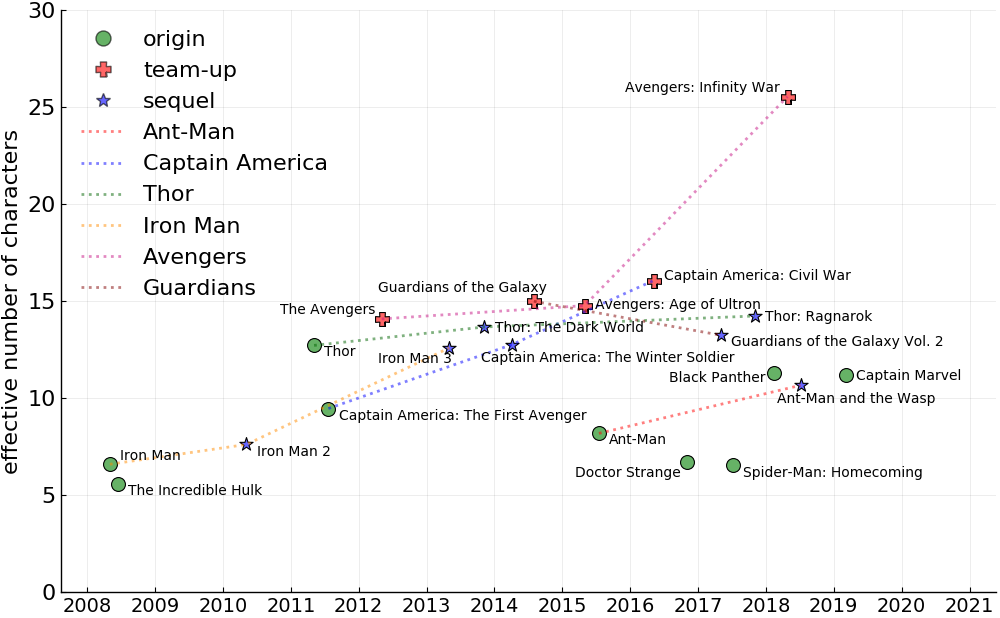
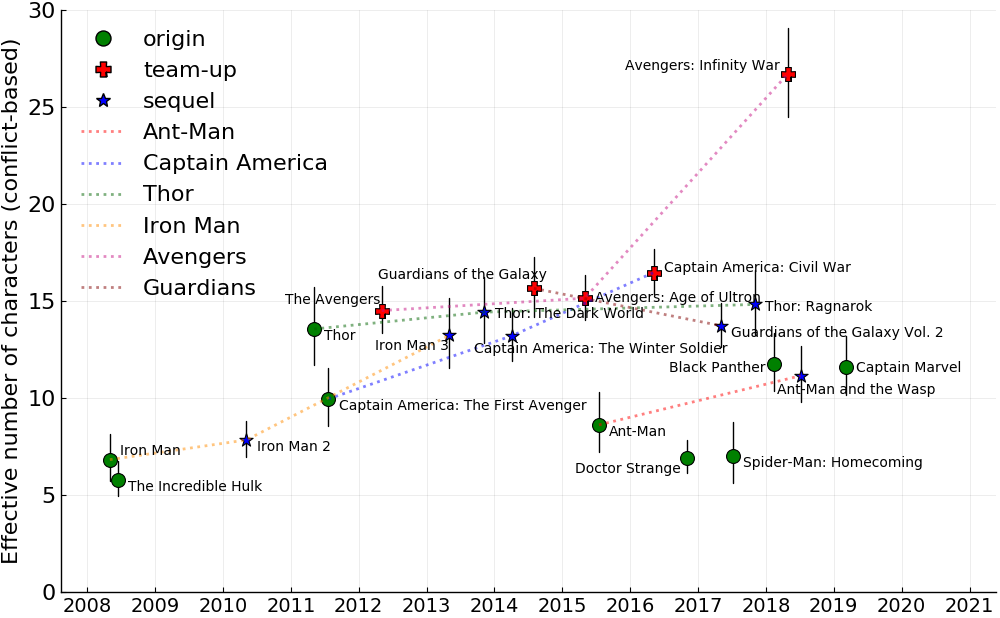
added cast count blog and images

diff --git a/content/posts/cast_size.md b/content/posts/cast_size.md
@@ -1,0 +1,356 @@
+--- 
+title: "Avengers Assemble"
+author:
+  name: "Matt Roughan, Lewis Mitchell and Tobin South"
+  desc: " "
+date: 2020-02-27
+lastmod: 2020-02-27 11:42:20
+description: "Ecological modelling of effective cast sizes for the
+Marvel Cinematic Universe using Shannon entropy."
+categories: ["movies"]
+tags: ["Marvel", "MCU", "Conflict", "Entropy"]
+cover: "img/IMG_1003_sm_sm_sm.png" 
+featuredImage: "img/IMG_1003_sm_sm.png"
+featuredImageDescription: ", Avengers assemble (mostly) in Lego"
+dropCap: false
+draft: true
+toc: true
+spoilers: false 
+---
+  
+# Intro
+ 
+{{% blockquote %}} 
+ **Thor:** Join us. Join Earth's mightiest heroes.
+ 
+ **Mantis:** Like Kevin Bacon?
+ 
+ **Thor:** He may be on the team. I don't know. I haven't been there
+ in a while.
+ 
+{{% /blockquote %}}
+
+
+How many Avengers are there? It should be an easy question, but it
+isn't. Even if we restrict ourselves to the Marvel Cinematic Universe
+(MCU), which we'll do here, the group changes over time, and some
+participants aren't official Avengers.
+
+The best way to measure that would be to just count, but if someone was an Avenger for one day only, should they be included?
+
+And if they aren't an official Avenger, but almost always end up in
+the team, maybe they should be included?
+
+What we need is a participation based measurement; not a hard "you're
+in or you're out" type of decision. We need a softer metric that
+lets you be *Avenger-ish* or *Avenger-adjacent*. So that's what we are
+going to do today.
+ 
+We're going to apply it to the
+[MCU](/posts/post_mcu1/) movies, and we're
+going to start by looking at something as simple as the effective size
+of the cast of the movies. But ultimately I want to work towards the question
+"How many Avengers are there?"
+
+
+# How do we measure a cast?
+
+The simplest approach to measuring the number of characters in a movie
+is to look at the size of the cast. Credit lists should give us that,
+right? 
+
+Wrong! Movie credits are not a uniformly defined source of data: the
+onscreen credits of Closer (2004) list 6 cast, whereas Stuck on You
+(2003) credits 383 actors. In the MCU *Iron Man 3* seems to have the
+largest cast (at 110), but it is just a linear plot, primarily
+involving Iron Man. On the other hand *Avengers: Infinity War*
+includes almost every prior superhero from the franchise but has a
+rather moderate credited cast of 56.
+
+There is no unique definition of how a credit list is constructed, and
+it has varied historically and regionally in level of detail, and the
+types of activity that are credited. In the United States, the
+standardisation of credits starts around the 70s, but has evolved
+continuously, and is still evolving[^1]. 
+
+The problems are that "credit" can have implications for cost, and as
+credits are often posted before the movie, some can reveal
+spoilers. So there are incentives to play with the list. Also, cameos
+and some extra parts are often uncredited.
+
+You might think that if we looked at "named" characters (characters
+important enough to require a proper noun designation) the issue would
+be resolved, but it isn't. By this measure *Thor: Ragnarok* has
+almost the smallest cast (18), but it is a big movie involving
+multiple settings and many characters. 
+
+Even more complex is the consideration of a character's contribution
+to a movie. Should a character who says one line be counted the same
+as the title character? 
+
+Our goal is to find an *effective* metric for the “population size” of
+the cast of a movie.  Luckily the problem has been considered
+extensively in the context of measuring ecological diversity of a
+habitat, and there are several parallels. In ecology there is a need
+to understand not just how many members of each species are present in
+a habitat, but to capture what this means in terms of diversity.
+
+One measure used in ecology is based on *Shannon entropy*. There are
+lots of good reasons to use this approach. I'll give a quick
+definition and some intuition below. 
+
+## Shannon entropy
+
+The entropy of a distribution describes its inherent uncertainty, and
+a higher uncertainty suggests greater diversity. Simply put, if it is
+harder to guess what species you are observing (assuming you know
+nothing about taxonomy) at any given moment, there must be more
+possibilities out there. An analogy is a multiple choice question – if
+it is harder to guess the answer, then there is more entropy. Think of
+it as measuring how many effective answers there are to the question.
+Some answers may be obviously wrong, so you don’t count them
+seriously.
+
+Shannon entropy[^2] is defined by
+{{< raw >}}
+\[ H({\mathbf p}) = - \sum_i p_i \log_2 p_i
+\]
+{{< /raw >}}
+for a probability distribution {{< raw >}}\({\mathbf p}=\{p_i\}\){{< /raw >}}.
+
+This isn't enough for us -- its unit are "bits" not
+characters. However, if we take
+{{< raw >}}
+\[ \hat{N}({\mathbf p})  =  2^{H({\mathbf p})}
+\]
+{{< /raw >}}
+then we can assign this units of "characters". It's a measure that is
+sometimes called
+[perplexity](https://en.wikipedia.org/wiki/Perplexity) in the context
+of information theory because it can be seen as a measurement of how
+hard a random event is to predict. A higher perplexity means it is
+harder to guess what will happen. 
+
+So, think of our measure of cast size in the following way. Imagine
+you blind-folded yourself, and put noise-cancelling headphones on, and
+then tried to guess which character was performing at some given time
+in a movie you have never seen before. Your chance of guessing
+correctly depends on the effective cast size. 
+
+If the cast is large, you are unlikely to guess correctly. If the cast is small, you have a better chance. And it naturally takes into account of characters who appear only briefly -- they change the metric only a little because there is little chance you would guess them.
+
+
+## Shannon entropy of what?
+
+Shannon entropy is calculated for a probability distribution {{< raw
+>}}\({\mathbf p}=\{p_i\}\){{< /raw >}}. The question that immediately
+arises is "what distribution?" There are several
+possibilities. Without wanting to divert the story too far, we tried a
+couple, and they give complementary views of the data. The one I will
+describe here is based on the proportional contributions of each
+character to the action of the movie.
+
+## Conflict data
+
+Here is a taste of the data. The table below lists the characters in the original *Iron Man* along with their frequency of participation in the action. The raw data is [here](https://github.com/mroughan/AlephZeroHeroesData/blob/master/MarvelCinematicUniverse/CastCount/Data/Conflicts/marvel_cinematic_universe.xlsx). Amongst other details it lists individual conflicts and who was involved for most of the MCU movies.  There's a lot in the file, so I will refine it down simply to counts of each characters' contribution as shown in the following table for the movie *Iron Man*.
+
+<div class="ui medium right floated image">
+{{% csv_table src="/static/csv/main_chars_iron_man.csv" link="https://github.com/mroughan/AlephZeroHeroesData/blob/master/MarvelCinematicUniverse/CastCount/Data/Conflicts/main_chars_iron_man.csv" colStyle="text-align:right;" %}} 
+</div>
+
+A few notes:
+
++ The data concerns the contribution of the characters to the action
+  of the movie, so for instance Yinsen only gets a small part. If we
+  used a dialogue-based metric it would be different, but
+  complementary.
+
++ Character aliases have been resolved, and single canonical names
+  used for each. See [this blog](/posts/marvel_v_bond/) for more
+  details. For instance,
+  [Rhodey](https://marvelcinematicuniverse.fandom.com/wiki/War_Machine)
+  isn't called War Machine yet, but he will be, and we want to use
+  common names across the whole MCU.
+
++ There are several characters listed as **mooks**. These are unnamed
+  characters who, never-the-less, are important for the action in the
+  movie. See [this post](/posts/mooks/) for more information about
+  these.
+ 
+The resulting metric for *Iron Man* is 
+{{< raw >}}\(\hat{N}(Iron Man)  \simeq  4.7\){{< /raw >}} characters.
+
+That is is considerably less than the number of characters in the movie, but isn't such a bad representation of the important characters. There are only really three important characters (Tony Stark/Iron Man, Obidiah Stane/Iron Monger and Pepper Potts) plus a short list of other named characters, and then various mooks that in total add up to about 1.7 other characters.
+
+# How many Avengers?
+
+
+{{% blockquote %}} 
+
+**Loki:** What have I to fear?
+ 
+**Tony Stark:** The Avengers. It's what we call ourselves. Sorta like a team. Earth's Mightiest Heroes type thing.
+
+**Loki:** Yes. I've met them
+
+**Tony Stark:** Yeah, takes us a while to get any traction I'll give you that one. But let's do a head count here. Your brother, the demigod. A super soldier, living legend who kinda lives up to the legend. A man with breathtaking anger management issues. A couple of master assassins and YOU, big fella, you've managed to piss off every single one of them.
+
+**Loki:** That was the plan.
+
+**Tony Stark:** Not a great plan.
+
+{{% /blockquote %}}
+
+The results get interesting when we look across the movies. At the moment, *End Game* and the latest *Spider Man* aren't included (they weren't available when we started the analysis), but all of the other 22 movies are in.
+
+<img src="/img/diversity_analysis_1_effective.png">
+
+We see some interesting patterns, most obviously there is a general
+*inflation* in cast sizes in most sequels (the exception is the
+Guardians of the Galaxy movies). Subsequent movies tend to have larger
+casts of characters. That shouldn't surprise anyone.
+
+To understand the patterns better, we should look a little bit at
+a way of categorising movies.
+
+
+## Types of movies
+
+In order to better understand results, the movies are classified into types within the
+MCU, based on the their characteristics and relationship to other movies in the franchise.
+We classify movies as:
+
++ *origin movies* – these have the first major appearance of a character, and often
+explain some of that character's back story;
++ *sequels* – these are movies that follow on directly from another with a large
+overlap in cast and plot elements; and
++ *team-ups* – these movies involve a group of superheroes forming into a team for a
+larger purpose.
+
+The classification is soft in the sense that many of the movies have aspects of more than
+one type of movie: for instance, most movies in the MCU are sequels in some sense.
+Other movies such as Guardians of the Galaxy is both a team-up and an origin movie
+for the characters in the team. Here we need to identify the primary role of the movie.
+
+The interesting thing in terms of our results is that origin movies
+tend to have small casts, which grow in sequels, and then are composed
+into larger casts for the large team-up movies. 
+
+## Who's on first
+
+We can use this metric in lots of ways. Another way to cut it is to
+look at the contributions of each character to the overall metric for
+the movies (the total estimate of the cast size for the MCU is 119.6,
+which is amazingly high -- compare it to what we might expect to get
+for the [Bond franchise](/posts/marvel_v_bond)). 
+
+The top five characters, in order are
+
+1. Iron Man / Tony Stark;
+2. Captain America / Steve Rogers;
+3. Thor Odinson;
+4. The Hulk / Bruce Banner; and
+5. Black Widow / Natasha Romanoff.
+
+No-one should be surprised by this list. They are the original set of Avengers, and they each appear in a large subset of the movies. In most cases they have their own movies, the only exception being Black Widow, but she is integral to the plots of several of the other movies, and she is used to weave plot lines together. And there is a Black Widow movie planned for later this year.
+
+
+# Does entropy matter?
+
+
+{{% blockquote author="Cecil B. DeMille" %}} 
+I win my awards at the box office.
+{{% /blockquote %}}
+
+The results above won't be all that surprising to anyone familiar with
+the genre. It might be a surprise that we can measure cast size at all
+accurately given the noisy input data. However, an obvious question is
+"can we do anything more useful with the number?"
+
+The answer is yes! The following plot shows the relationship between
+the cast size and profitability of the movies (the ratio of US Box
+Office[^3] to movie Budget[^4]. There is a clear correlation. 
+
+<img src="/img/diversity_analysis_1_profitability.png">
+
+The biggest surprise is that the effective cast size is correlated with the profitability of the movies. A bigger roll-call is related to bigger profits.
+
+You have to be very careful about such results. What we observe is
+only a correlation – we can’t get causation from that. We think the
+true reason for the correlation isn’t just that audiences like bigger
+casts. The real reason is part of the uniqueness of the MCU. The
+producers were willing to build a series of movies towards a “team
+up”. They started with a sequence of Iron Man, Captain America and
+Thor movies that led to the tremendously popular Avengers.  And then
+they did it again with brilliant “origin” movies for new characters,
+leading to bigger and bigger team ups.
+
+That took a special kind of vision, to be willing to develop these
+characters over multiple movies to build up to an amazing culmination
+over a period of years. It’s so different from the typical franchise,
+which is a series of sequels (and sometimes prequels) with roughly the
+same set of characters.
+
+# Conclusion
+
+Ultimately, I haven't told you how many avengers there are. That was a
+cheat. The cast of characters in a movie includes villains and
+non-heros as well. But the size of that cast seems to be important. 
+
+What makes a movie or a franchise work is tremendously complex, and
+you cannot undervalue the contributions of the brilliant directors,
+actors and other artists who created these movies. We shouldn't
+oversell the results here. They are a tiny piece of the picture, but
+stories are so important to humans. It is fair to say, I think, that
+stories are what make us human; what differentiates us from the rest
+of the natural world. We would really like to make a contribution to
+understanding what makes up the stories that are successful. 
+
+This blog entry is based on a paper that just appeared on in the PLOS ONE [Science of Stories](https://collections.plos.org/s/science-of-stories) collection. You'll find all the gory details [here](https://journals.plos.org/plosone/article?id=10.1371/journal.pone.0223833) if you want more information. There were also articles on [TechXplore](https://techxplore.com/news/2019-07-avengers-ecology-based-metrics-effective-sizes.html) and [MIT Technology Review](https://www.technologyreview.com/s/613875/why-avengers-infinity-war-was-so-successful-according-to-ecology/) and [Comicbook.com](https://comicbook.com/marvel/2019/07/07/new-study-reveals-why-fans-like-avengers-endgame/) so you may have seen some of this before. We thought it worth doing our own piece about it if only to keep the blog entries churning out :)
+
+We take these results a fair bit further in that paper as well. We
+look at relationships between the characters in each movie, and
+cluster the movies according to how close their casts are. 
+
+The final picture here shows a projection of them into a 2D Cartesian
+space. Clusters are indicated by colour, and we can see that they
+match the natural clustering of the movie. 
+
+<img src="/img/diversity_analysis_5_mds.png">
+ 
+
+
+# Acknowledgements
+
+Thanks to Sylvia for editing this one.
+
+
+# Resources 
+
+Lots of data went into this one. The bits that we contributed are on the [GitHub](https://github.com/mroughan/AlephZeroHeroesData/tree/master/MarvelCinematicUniverse/CastCount) under a [Creative Commons Attribution-ShareAlike 3.0 Unported License](https://creativecommons.org/licenses/by-sa/3.0/).
+
+Source resources include:
+
++ [The Numbers](http://www.the-numbers.com) for information about Box office sales etc.
++ [IMDbPY](https://imdbpy.github.io/) a Python package for retrieving and managing the data of the IMDb movie database about movies and people.
++ Scripts were from 
+
+	- Transcripts Wiki on  [fandom.com](https://www.fandom.com/)
+	- [Script Slug](https://www.scriptslug.com/)
+
+The full paper is [here](https://journals.plos.org/plosone/article?id=10.1371/journal.pone.0223833) as part of the PLOS ONE [Science of Stories](https://collections.plos.org/s/science-of-stories) collection.
+
+---
+ 
+**Footnotes**
+
+
+[^1]: For example, since Toy Story (1995), lists of “Production Babies” born to crew members have been increasingly included in movie credits.
+    
+[^2]: I keep calling it Shannon entropy because there are different ideas of entropy: for instance <a href="https://en.wikipedia.org/wiki/R%C3%A9nyi_entropy">Rényi entropy</a>.  Shannon's wasn't first, but IMHO its best.
+	 
+[^3]: There are many other facets to the success of a movie: DVD sales, for instance, and Star Wars is legendarily famous for its merchandising, but Box Office receipts is (i) a somewhat easier number to obtain, and (ii) is possible to obtain more quickly than other metrics, which is important in order to compare recent movies.
+    
+[^4]: Exact costs are notoriously hard to obtain – here we use the budget as stated in [the Numbers](The Numbers).
+
+

diff --git a/content/staging/sandman_gaiman.md b/content/staging/sandman_gaiman.md
@@ -21,13 +21,21 @@ Susan Sontag quote this in reference to photography.
 
 
 
-Many people paint recreationally. Photography is praticed by almost
+
+
+I like Neil Gaiman's writing a lot. Reading it is like putting on a warm pair of wooly socks on a winter's evening. A warm pair of haunted socks. 
+
+
+
+
+
+Many people paint recreationally. Photography is practiced by almost
 everyone with a phone. Music is taught to every second
 grade-schooler. And almost everyone I ever knew was forced to write,
 creatively (perhaps).
 
 We have, in the West (and elsewhere) digested the idea that Art is not
-just teh pursuit of the gifted and driven. It is part of every persons
+just the pursuit of the gifted and driven. It is part of every persons
 cultural and social kit bag.
 
 But who draws comics? The marginalised "geeks" of our world. Why is that?
